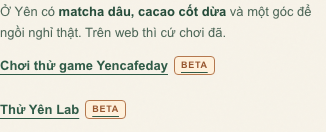
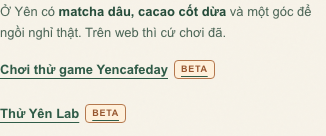
Address review: links in their own 44px row, no focus ring after tap-closing the menu on WebKit, accurate release note (#134)

diff --git a/index.html b/index.html
@@ -3064,7 +3064,7 @@ body.yen-stamping-active{overflow:hidden}
 #receipt-next-game{justify-content:center}
 @media(prefers-reduced-motion:reduce){.hero-play-btn:hover .yen-icon{transform:none}}
 </style>
-  <style id="yen-3d-game-door-style">.hero-intro .yen-game-link{display:inline-flex;gap:6px;align-items:center;flex-wrap:wrap;min-height:44px;font-weight:800;text-decoration:underline;text-underline-offset:4px;color:var(--green)}.hero-intro .yen-game-link:hover{color:#b76f43}.hero-intro .yen-game-beta{display:inline-block;vertical-align:middle;letter-spacing:.08em;font-size:9px;font-weight:900;line-height:1.4;border:1px solid #b4774d;color:#97552e;background:#fff1dc;padding:2px 6px;border-radius:4px;text-decoration:none}</style>
+  <style id="yen-3d-game-door-style">.hero-intro .yen-hero-links{display:flex;flex-wrap:wrap;align-items:center;gap:0 20px;margin-top:4px}.yen-game-link{display:inline-flex;gap:6px;align-items:center;flex-wrap:wrap;min-height:44px;font-weight:800;text-decoration:underline;text-underline-offset:4px;color:var(--green)}.hero-intro .yen-game-link:hover{color:#b76f43}.hero-intro .yen-game-beta{display:inline-block;vertical-align:middle;letter-spacing:.08em;font-size:9px;font-weight:900;line-height:1.4;border:1px solid #b4774d;color:#97552e;background:#fff1dc;padding:2px 6px;border-radius:4px;text-decoration:none}</style>
 </head>
 <body>
   <!-- Yên doodle icons: hand-drawn, consistent stroke; no icon fonts or external assets -->
@@ -3175,7 +3175,7 @@ body.yen-stamping-active{overflow:hidden}
       <div class="hero-copy">
         <h1 id="hero-title">Ghé chơi.<span class="hero-invite-line"><em class="hero-go-word">Đi</em> đâu cho xa.</span><span class="hero-invite-line hero-local-line"><em class="hero-go-word">Đi</em> Láng Dài lái cục dàng nè</span></h1>
         <div class="hero-cta"><a class="big-btn hero-play-btn" href="#tam-trang">Xin giấy phép nghỉ <svg class="yen-icon" aria-hidden="true" focusable="false"><use href="#yen-permit-stamp-cheeky"></use></svg></a><a class="hero-real-btn" href="#yen-ngoai-doi">Yên ngoài đời</a></div>
-        <p class="hero-intro">Ở Yên có <strong>matcha dâu, cacao cốt dừa</strong> và một góc để ngồi nghỉ thật. Trên web thì cứ chơi đã. <a class="yen-game-link" href="/game/" aria-label="Chơi thử game Yencafeday, phiên bản BETA">Chơi thử game Yencafeday <span class="yen-game-beta" aria-hidden="true">BETA</span></a> <a class="yen-game-link yen-lab-link" href="/lab/" aria-label="Thử Yên Lab, phiên bản Beta">Thử Yên Lab <span class="yen-game-beta" aria-hidden="true">BETA</span></a></p>
+        <p class="hero-intro">Ở Yên có <strong>matcha dâu, cacao cốt dừa</strong> và một góc để ngồi nghỉ thật. Trên web thì cứ chơi đã. <span class="yen-hero-links"><a class="yen-game-link" href="/game/" aria-label="Chơi thử game Yencafeday, phiên bản BETA">Chơi thử game Yencafeday <span class="yen-game-beta" aria-hidden="true">BETA</span></a> <a class="yen-game-link yen-lab-link" href="/lab/" aria-label="Thử Yên Lab, phiên bản Beta">Thử Yên Lab <span class="yen-game-beta" aria-hidden="true">BETA</span></a></span></p>
         <div class="hero-easter-row"><button class="hero-dare hero-easter-btn" id="poke-btn" type="button" aria-describedby="poke-reply">Đừng bấm cái này <svg class="yen-icon" aria-hidden="true" focusable="false"><use href="#yen-talk"></use></svg></button></div>
         <p class="poke-reply" id="poke-reply" role="status" aria-live="polite"></p>
         

diff --git a/lab/lab.js b/lab/lab.js
@@ -37,10 +37,16 @@
     book.disabled = false;
     // Keyboard open (click.detail === 0): focus the close control with its visible ring. Tap/mouse open: focus the dialog
     // itself, because WebKit (iPhone Safari) draws the focus ring on programmatic focus even after a tap.
-    book.addEventListener('click', event => { menu.showModal(); (event.detail === 0 ? close : menu).focus(); });
+    let byPointer = false;
+    book.addEventListener('click', event => { byPointer = event.detail !== 0; menu.showModal(); (byPointer ? menu : close).focus(); });
     close.addEventListener('click', () => menu.close());
     menu.addEventListener('click', event => { if (event.target === menu) menu.close(); }); // tap outside the book
-    menu.addEventListener('close', () => book.focus());
+    // Focus always returns to the book. After a tap, mark it so no ring is drawn (WebKit shows :focus-visible after
+    // programmatic focus); the mark is dropped as soon as a key is pressed or focus leaves.
+    const unmark = () => book.classList.remove('is-pointer-focus');
+    book.addEventListener('blur', unmark);
+    document.addEventListener('keydown', unmark, true);
+    menu.addEventListener('close', () => { if (byPointer) book.classList.add('is-pointer-focus'); book.focus(); });
   }
 
 })();

diff --git a/lab/lab.css b/lab/lab.css
@@ -88,6 +88,7 @@ button { font: inherit; color: inherit; }
   transform: translateY(-4px) rotate(-2deg); filter: drop-shadow(0 6px 6px rgba(60, 40, 20, .35)) brightness(1.04);
 }
 .sprite-book:not(:disabled):active { transform: translateY(1px); }
+.sprite-book.is-pointer-focus:focus-visible { outline: none; transform: none; filter: none; } /* focus returned after a tap */
 
 /* Menu = the same painted book opened big; game names are written on its pages */
 .menu {

diff --git a/docs/yen-lab/RELEASE-M1.md b/docs/yen-lab/RELEASE-M1.md
@@ -1,12 +1,12 @@
 # Yên Lab · M1 Playable Alpha release (LAB-F10, #134)
 
-Ngày: 19/11/2026 · Cổng M1: **homepage → `/lab/` → Thở cùng Yên** trên production.
+Ngày: 19/11/2026 · Cổng M1: **homepage → `/lab/` → Thở cùng Yên**. Trạng thái phát hành, SHA và URL production: ghi trong #134 sau khi merge và deployed smoke chạy xong.
 
 ## Thay đổi trong bản phát hành
 
 - `index.html`: `flag_yenlab = 1` → hiện liên kết “Thử Yên Lab · BETA” trong đoạn giới thiệu đầu trang (cạnh liên kết game cũ).
-- `index.html`: `.yen-game-link` có `min-height: 44px` (lỗi từ review PR #167: hai liên kết chữ 13px cao 21px trên điện thoại).
-- `lab/lab.js` + `lab/index.html`: mở sổ bằng chạm/chuột thì focus vào chính dialog (không còn khung cam quanh cuốn sổ trên iPhone WebKit); mở bằng bàn phím vẫn focus nút gấp sổ có viền.
+- `index.html`: hai liên kết chữ trong đoạn giới thiệu nằm trong một hàng riêng `.yen-hero-links` dưới câu chữ, mỗi liên kết cao 44px (lỗi từ review PR #167: cao 21px trên điện thoại). Đoạn chữ phía trên giữ khoảng dòng bình thường.
+- `lab/lab.js` + `lab/index.html` + `lab/lab.css`: mở/gấp sổ bằng chạm không còn khung cam quanh cuốn sổ trên iPhone WebKit (mở: focus vào chính dialog; gấp: focus trả về sổ nhưng không vẽ viền cho tới khi người dùng bấm phím). Mở bằng bàn phím vẫn focus nút gấp sổ có viền.
 - Không đổi trò, engine, CSP hay dữ liệu. Phaser game không bị động tới.
 
 ## Checklist cổng M1
@@ -15,13 +15,13 @@ Ngày: 19/11/2026 · Cổng M1: **homepage → `/lab/` → Thở cùng Yên** tr
 | --- | --- | --- |
 | F03–F09 + G01 đã xong, có code và test trên production | ✅ | #127 #128 #129 #130 #131 #132 #133 #142 đóng kèm SHA production |
 | Khách từ homepage chơi được Thở cùng Yên, không đăng nhập | ✅ | `yen-lab-route.spec.mjs`: homepage → link → phòng → sổ → trò → bắt đầu → hoàn tất; back/forward không tự chạy |
-| Browser tests | ✅ | Lab Playwright 124/124 (Chromium desktop + touch giả lập); smoke 5 khung; privacy; deployed smoke trên preview của PR |
-| iPhone | ⚠ **giả lập** | WebKit 26.5 (engine của Safari) với hồ sơ iPhone 15: 72/72 bài trò + route + privacy, ảnh bên dưới. **Chưa kiểm tra trên iPhone thật** (máy chạy không có Xcode/Simulator). |
-| Android | ⚠ **giả lập** | Chromium 151 với hồ sơ Pixel 7: 72/72, ảnh bên dưới. **Chưa kiểm tra trên Android thật.** |
+| Browser tests | ✅ | Lab Playwright 126/126 (Chromium desktop + touch giả lập); smoke 5 khung; privacy; deployed smoke trên preview của PR |
+| iPhone | ⚠ **giả lập** | WebKit 26.5 (engine của Safari) với hồ sơ iPhone 15: 37/37 bài trò + route + privacy, ảnh bên dưới. **Chưa kiểm tra trên iPhone thật** (máy chạy không có Xcode/Simulator). |
+| Android | ⚠ **giả lập** | Chromium 151 với hồ sơ Pixel 7: 37/37, ảnh bên dưới. **Chưa kiểm tra trên Android thật.** |
 | Bàn phím | ✅ | Tab/Enter/Space/Escape ở phòng, sổ, trò (Chromium); Option+Tab ở WebKit như Safari |
 | Reduced motion | ✅ | Không animation, trò vẫn hoàn tất (kể cả bật giữa chừng) |
 | Screen reader | ⚠ một phần | Nhãn, live region, thông báo pha có test tự động; **chưa nghe thử bằng VoiceOver/TalkBack thật** |
-| P0/P1 | ✅ 0 mở | Review độc lập từng PR đã sửa hết P0/P1 trước khi merge |
+| P0/P1 | ✅ 0 mở về code | Review độc lập từng PR đã sửa hết P0/P1 code trước khi merge (PR này: viền focus khi gấp sổ, số liệu ghi chú). Còn mở: kiểm tra trên điện thoại thật là tiêu chí của #134 mà agent không tự làm được. |
 | Copy riêng tư / bằng chứng | ✅ | SAFETY.md nguyên văn; check tĩnh chặn câu hứa hẹn sức khỏe; EVIDENCE G01 re-review 1–5 phút |
 | SHA + URL production, rollback dễ | sau merge | Workflow deployed smoke ghi SHA; xem phần Rollback |
 
